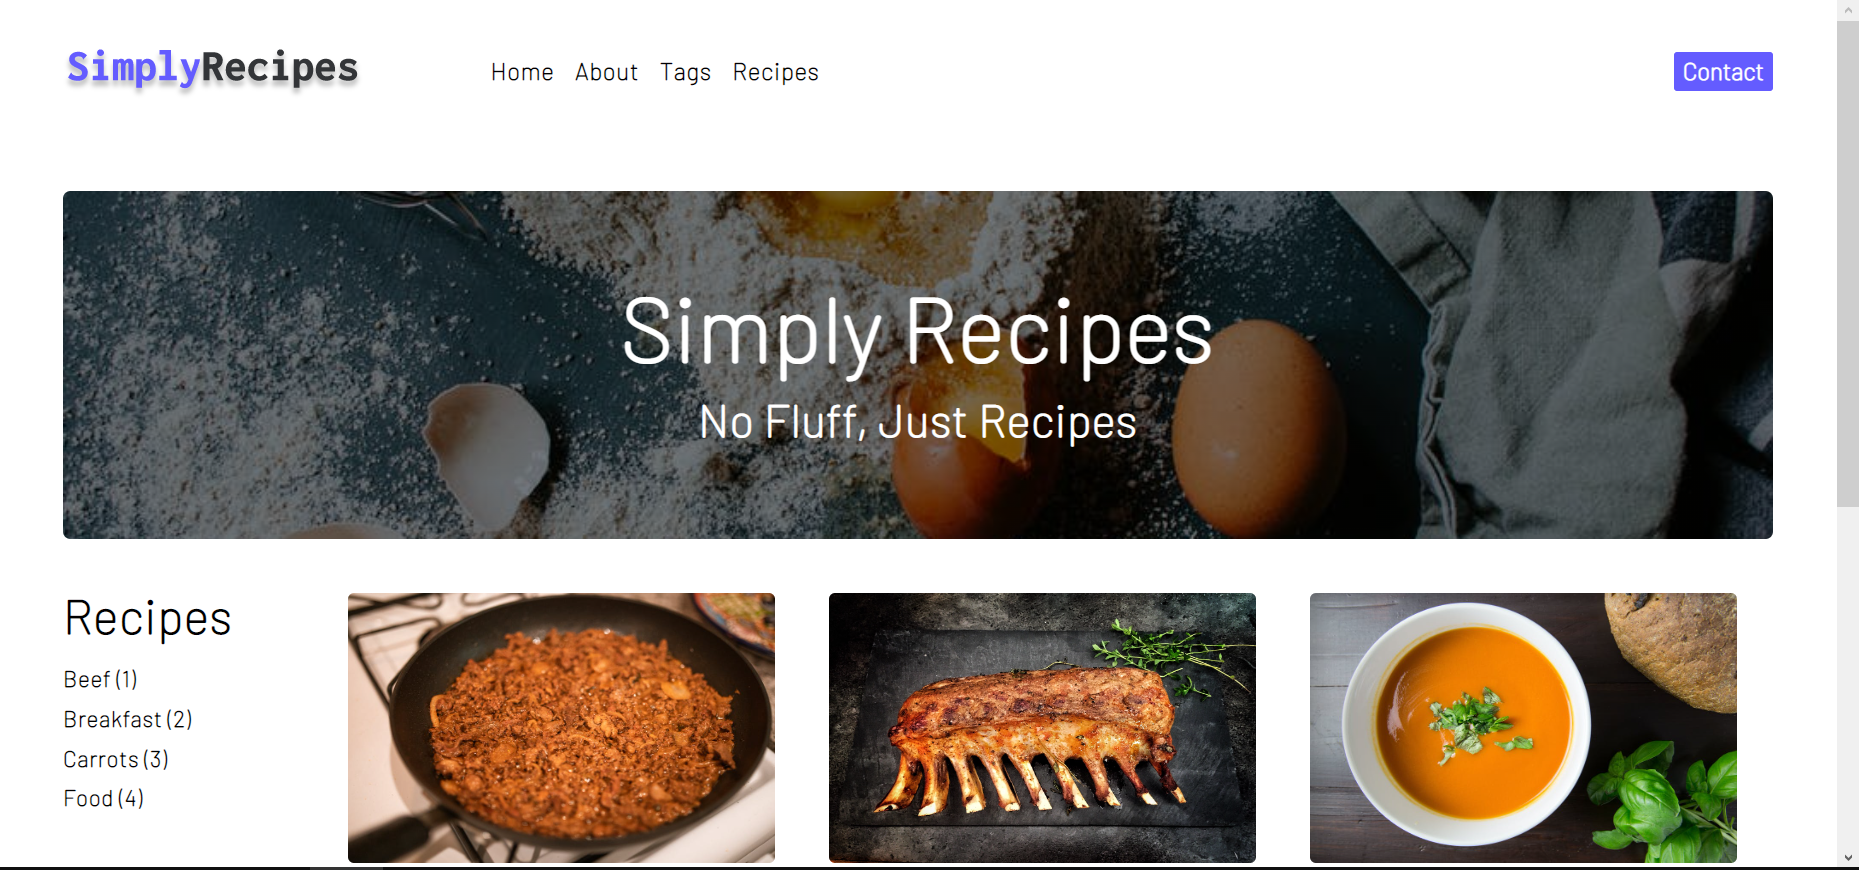
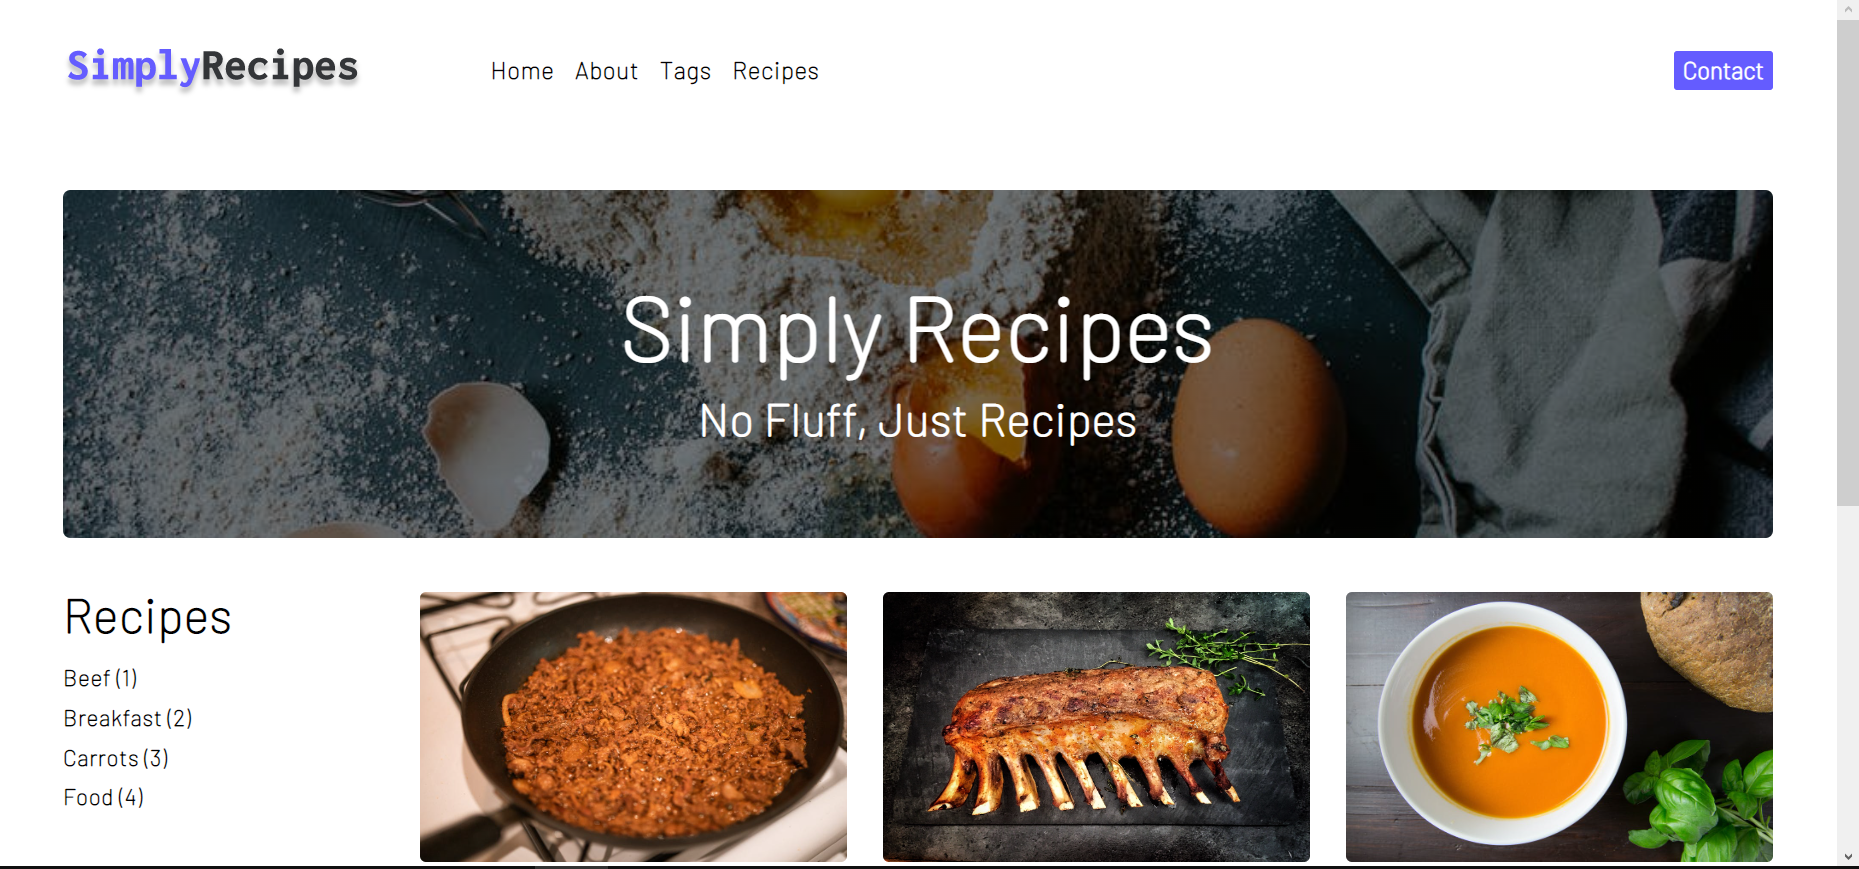
images fixed

diff --git a/odevler/bootstrap-css-odev-1/index.html b/odevler/bootstrap-css-odev-1/index.html
@@ -61,26 +61,26 @@
             </div>
             <!-- RECIPE TAGS END -->
             <!-- RECIPE LIST -->
-            <div class="col ps-0 pt-1">
+            <div class="col-12 col-lg-10 ps-5 pt-1 pe-0">
                 <div class="row recipe-list">
-                    <div class="col-12 col-lg-4"><a class="recipe-card" href="single-recipe.html"><img
-                                class="recipe-image" src="/img/recipes/carne-asada.jpeg" alt="">
+                    <div class="col-12 col-lg-4"><a href="single-recipe.html"><img
+                                class="recipe-image" src="./img/recipes/carne-asada.jpeg" alt="">
                             <h2>Carne
                                 Asada</h2>
                             <p>Prep : 15min | Cook: 5 min</p>
                         </a></div>
-                    <div class="col-12 col-lg-4"><a class="recipe-card" href="single-recipe.html"><img
-                                class="recipe-image" src="/img/recipes/greek-ribs.jpeg" alt="">
+                    <div class="col-12 col-lg-4"><a href="single-recipe.html"><img
+                                class="recipe-image" src="./img/recipes/greek-ribs.jpeg" alt="">
                             <h2>Greek Ribs</h2>
                             <p>Prep : 15min | Cook: 5 min</p>
                         </a></div>
-                    <div class="col-12 col-lg-4"><a class="recipe-card" href="single-recipe.html"><img
-                                class="recipe-image" src="/img/recipes/veg-soup.jpeg" alt="">
+                    <div class="col-12 col-lg-4"><a href="single-recipe.html"><img
+                                class="recipe-image" src="./img/recipes/veg-soup.jpeg" alt="">
                             <h2>Vegetable Soup</h2>
                             <p>Prep : 15min | Cook: 5 min</p>
                         </a></div>
-                    <div class="col-12 col-lg-4"><a class="recipe-card" href="single-recipe.html"><img
-                                class="recipe-image" src="/img/recipes/banana-pcakes.jpeg" alt="">
+                    <div class="col-12 col-lg-4"><a href="single-recipe.html"><img
+                                class="recipe-image" src="./img/recipes/banana-pcakes.jpeg" alt="">
                             <h2>Banana Pancakes</h2>
                             <p>Prep : 15min | Cook: 5 min</p>
                         </a></div>

diff --git a/odevler/bootstrap-css-odev-1/css/style.css b/odevler/bootstrap-css-odev-1/css/style.css
@@ -50,7 +50,7 @@ h4{
 .header-container {
     height: 231.73px;
     background: linear-gradient(rgba(0, 0, 0, 0.4),
-    rgba(0, 0, 0, 0.4)), url(/img/main.jpeg) center/cover no-repeat;
+    rgba(0, 0, 0, 0.4)), url(../img/main.jpeg) center/cover no-repeat;
     align-items: center;
     border-radius: 5px;
     margin-top: 2rem;
